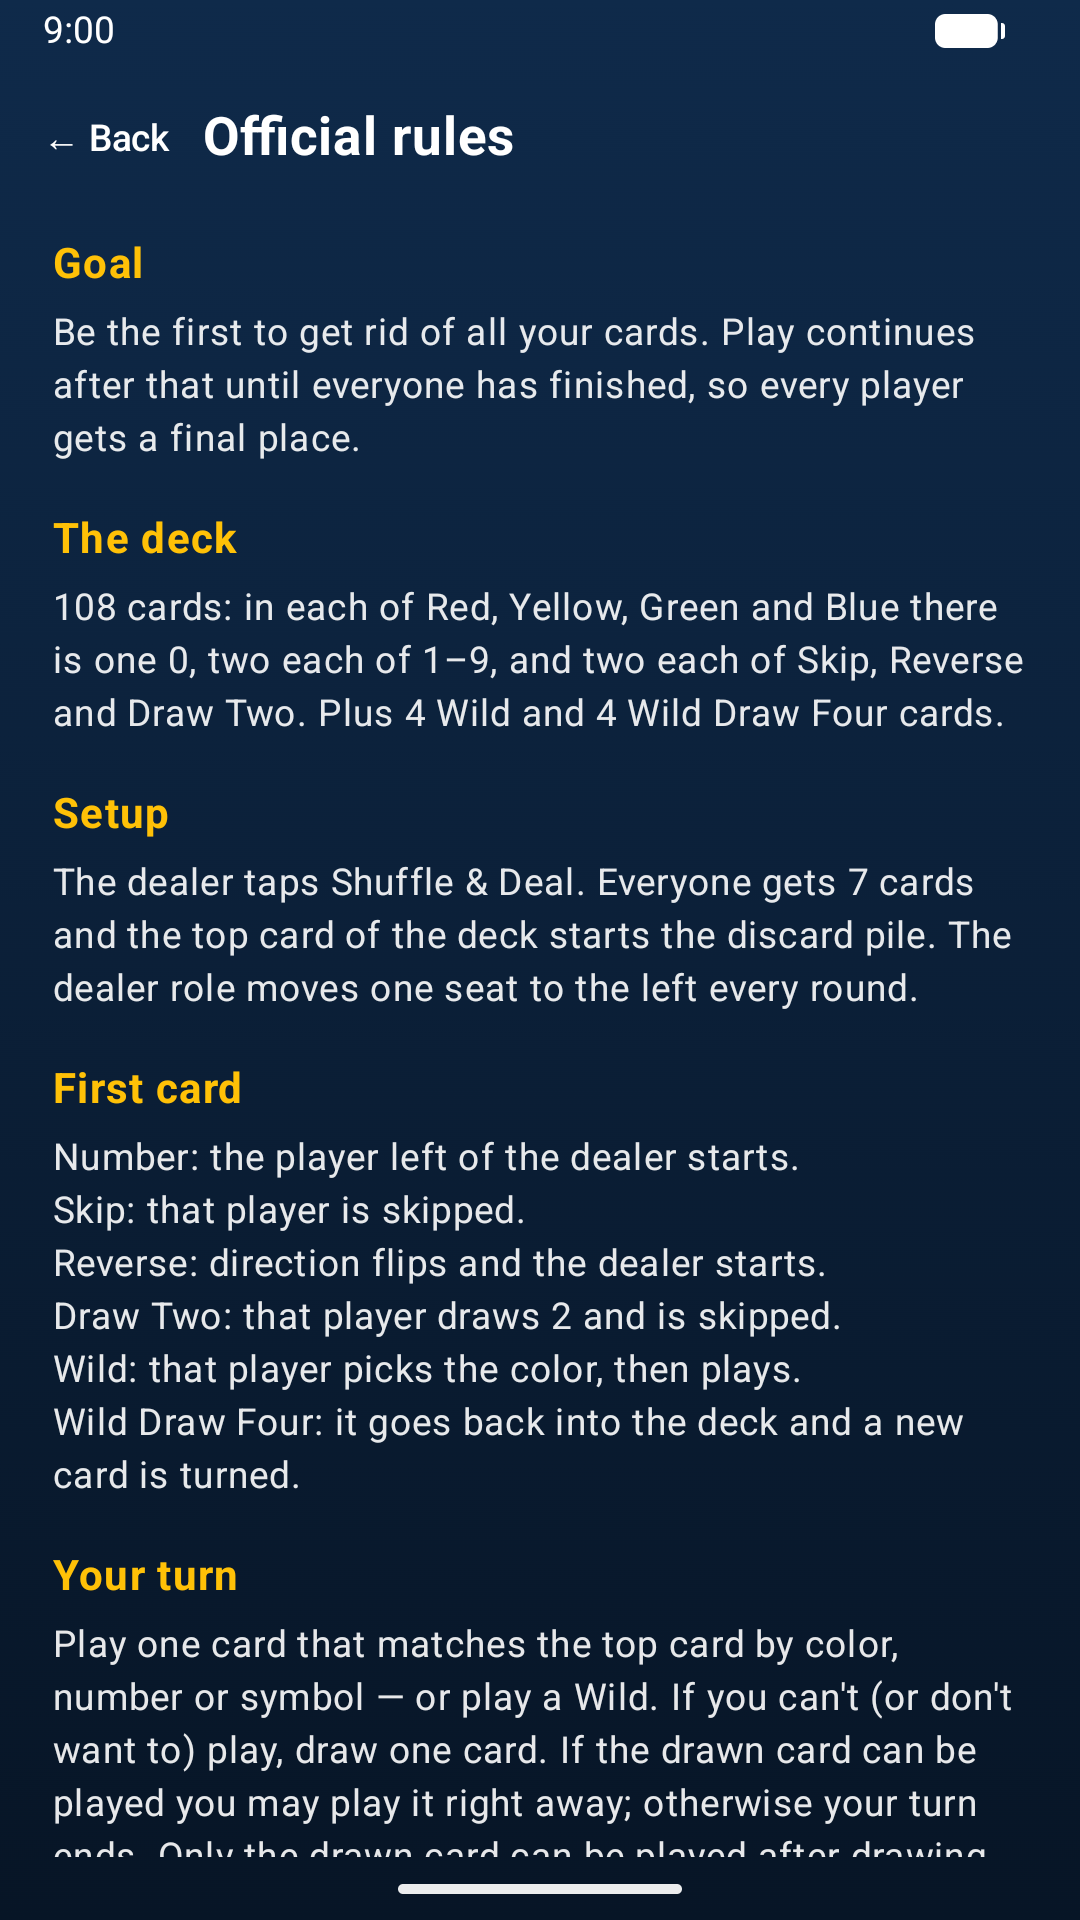
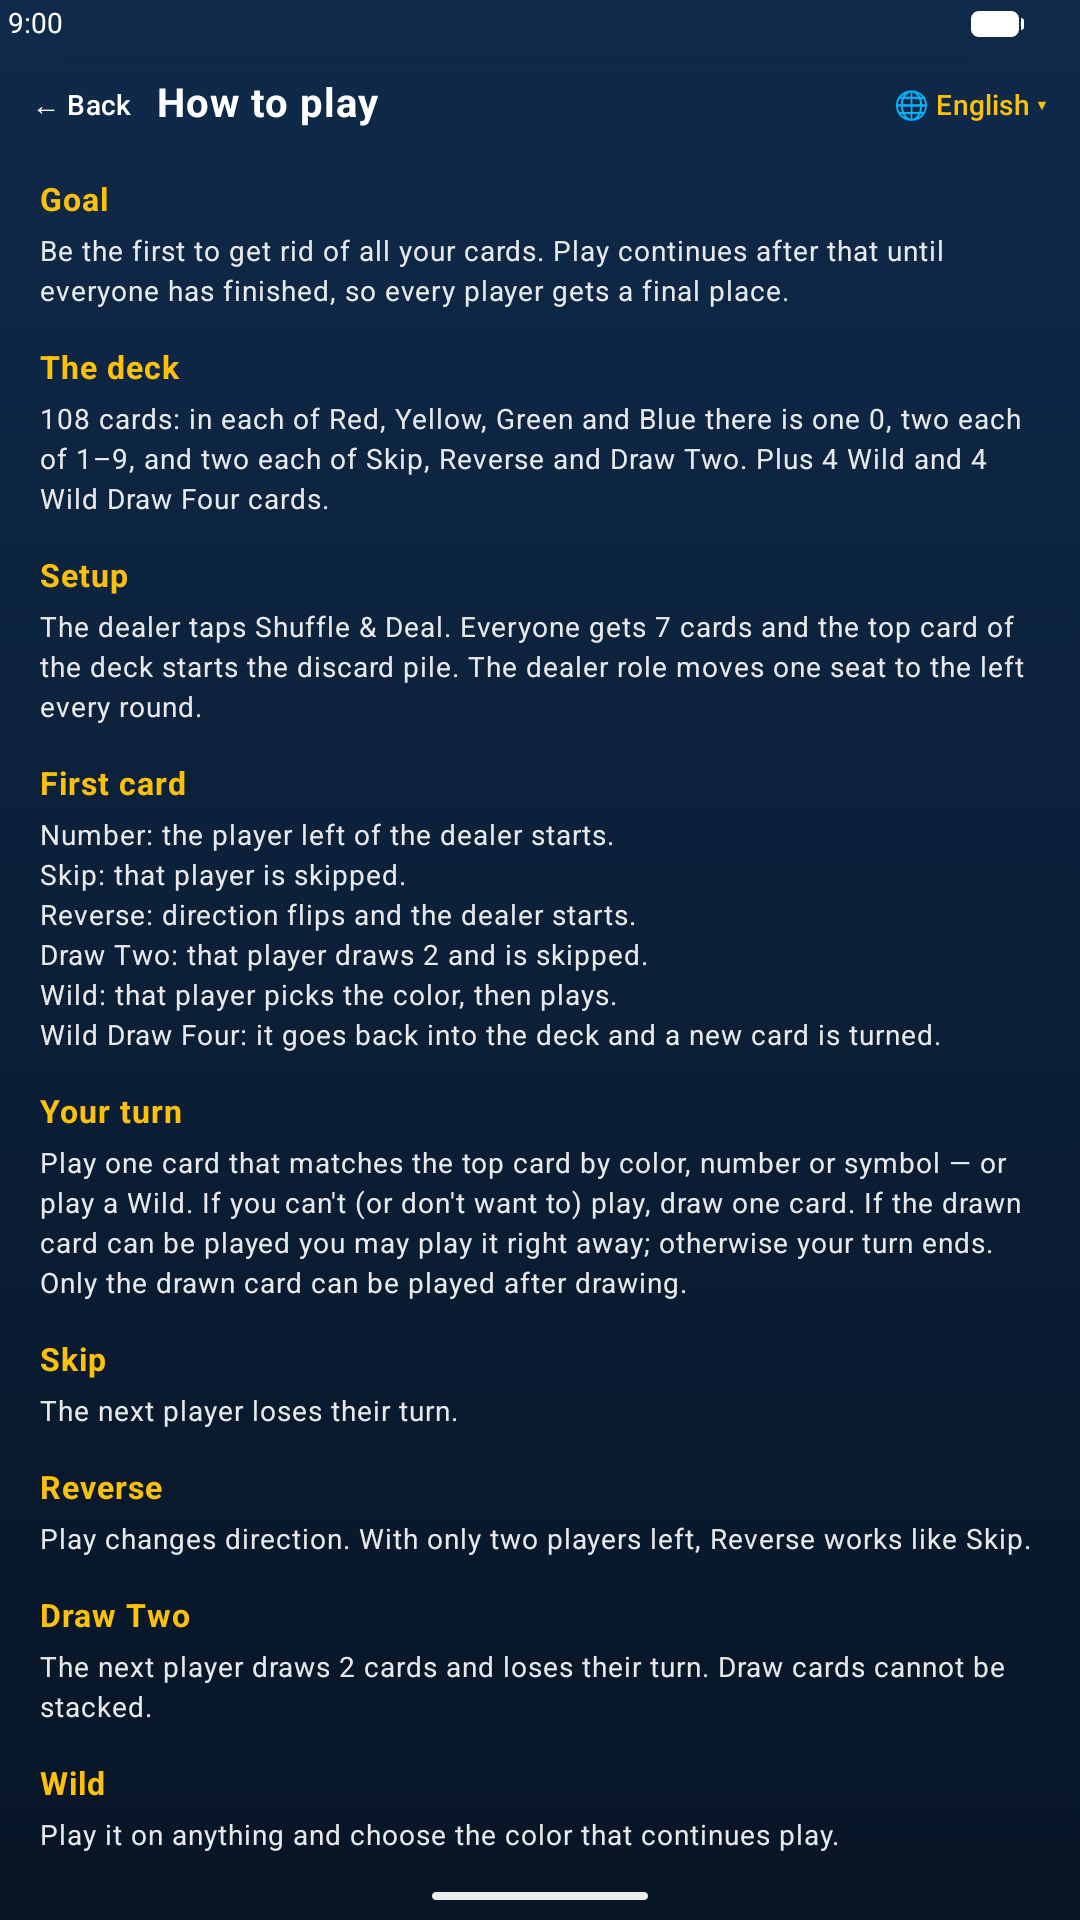
Store: new Crazy Cards screenshots and listing text
- Retook all 16 store screenshots (phone, 7" and 10" tablet) showing the
  Crazy Cards design; clean 9:00 status bar
- Add store/listing.md with title, short and full description. Targets
  "multiplayer card game" searches without using the UNO trademark.

Claude-Session: https://claude.ai/code/session_01YTYW667da4TFy1ocN8gz2U

diff --git a/store/listing.md b/store/listing.md
@@ -1,0 +1,68 @@
+# Play Store listing — Crazy Cards
+
+Paste these into Play Console → Grow → Store presence → Main store listing.
+
+> **Do not add "UNO" anywhere in the title, descriptions or screenshots.** It is Mattel's
+> trademark; using it to attract searches breaks Google Play's Metadata and Intellectual
+> Property policies and can get the app removed. The text below targets the words people
+> type alongside it ("multiplayer", "card game", "with friends", "online", "Crazy Eights").
+
+## App name (max 30 characters)
+
+```
+Crazy Cards: Multiplayer Game
+```
+
+## Short description (max 80 characters)
+
+```
+Match colors & numbers! Play friends online or vs computer. Shout Last Card!
+```
+
+## Full description (max 4000 characters)
+
+```
+Crazy Cards is the classic color-and-number matching card game you already know how to play — now with online multiplayer, smart computer players and 31 languages.
+
+Match the top card by color, number or symbol, hit your friends with Skip, Reverse, Draw Two and Wild Draw Four, and be the first to empty your hand. Down to your final card? Tap LAST CARD before someone catches you!
+
+🃏 PLAY YOUR WAY
+• Online multiplayer with friends and family — up to 10 players at one table
+• Create a private game and share a 6-character code — friends join in seconds
+• Play offline against 1–9 computer players, no internet needed
+• Three difficulty levels: Easy, Normal and Hard
+• Mix real players and computer players in the same online game
+
+⚡ ALL THE CLASSIC ACTION CARDS
+• Skip, Reverse and Draw Two
+• Wild to change the color
+• Wild Draw Four — and the challenge rule: was it a bluff?
+• Last Card call with catch penalty
+• Scoring across rounds so every game has a winner
+
+🌐 MADE FOR REAL GAME NIGHTS
+• Rejoin anytime: lose connection or switch apps and the computer plays your turn until you're back
+• 30-second turn timer keeps online games moving
+• Rules explained in 31 languages, including Hindi, Bengali, Tamil, Telugu, Marathi, Spanish, Arabic and more
+• Sign in with Google or email for online play
+
+🎉 FUN FOR EVERYONE
+A fast, family-friendly card party game in the spirit of Crazy Eights. Perfect for friends, family, classmates and long journeys. Easy to learn, hard to put down.
+
+No ads. No in-app purchases. Just cards.
+
+Download Crazy Cards and start your game night now!
+```
+
+## Tags / category
+
+- Category: **Games → Card**
+- Tags (Play Console → Store settings): Card, Casual, Multiplayer, Offline, Family, Party
+
+## Graphics
+
+- App icon: `store/icon-512.png`
+- Feature graphic: `store/feature-graphic-1024x500.png`
+- Phone screenshots: `store/screenshots/phone/` (1080×1920)
+- 7-inch tablet: `store/screenshots/tablet-7in/` (1200×1920)
+- 10-inch tablet: `store/screenshots/tablet-10in/` (1600×2560)
